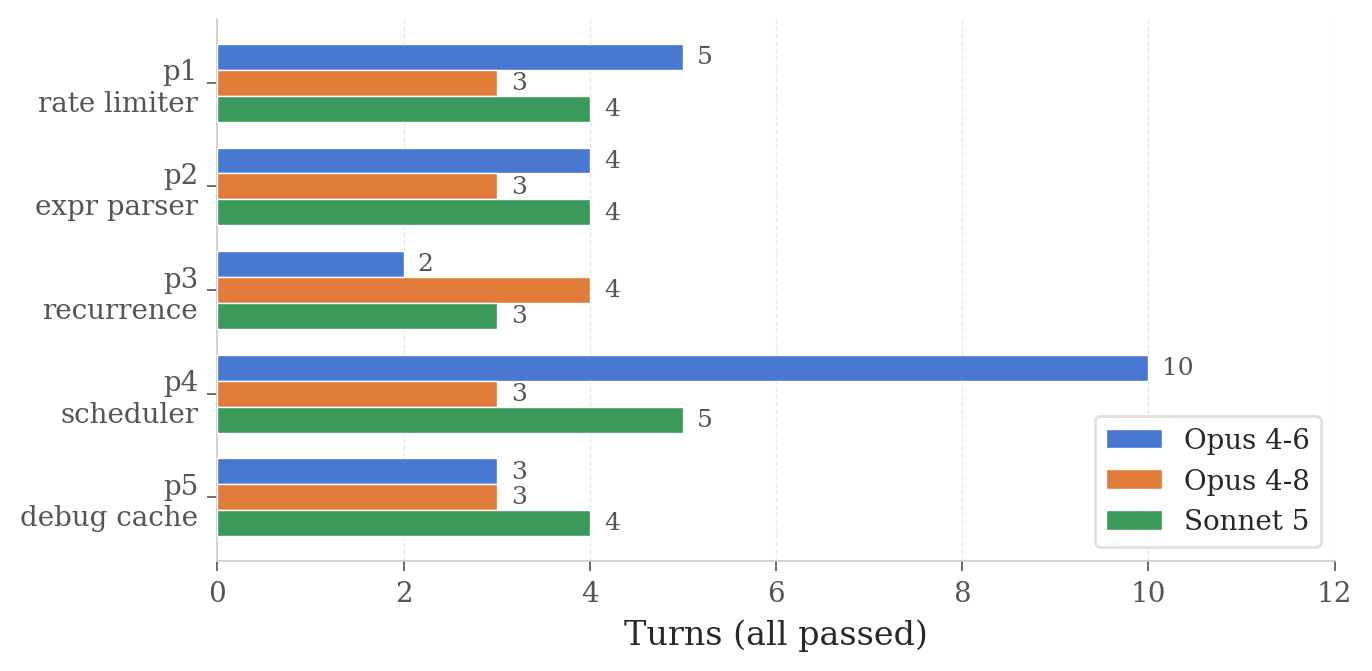
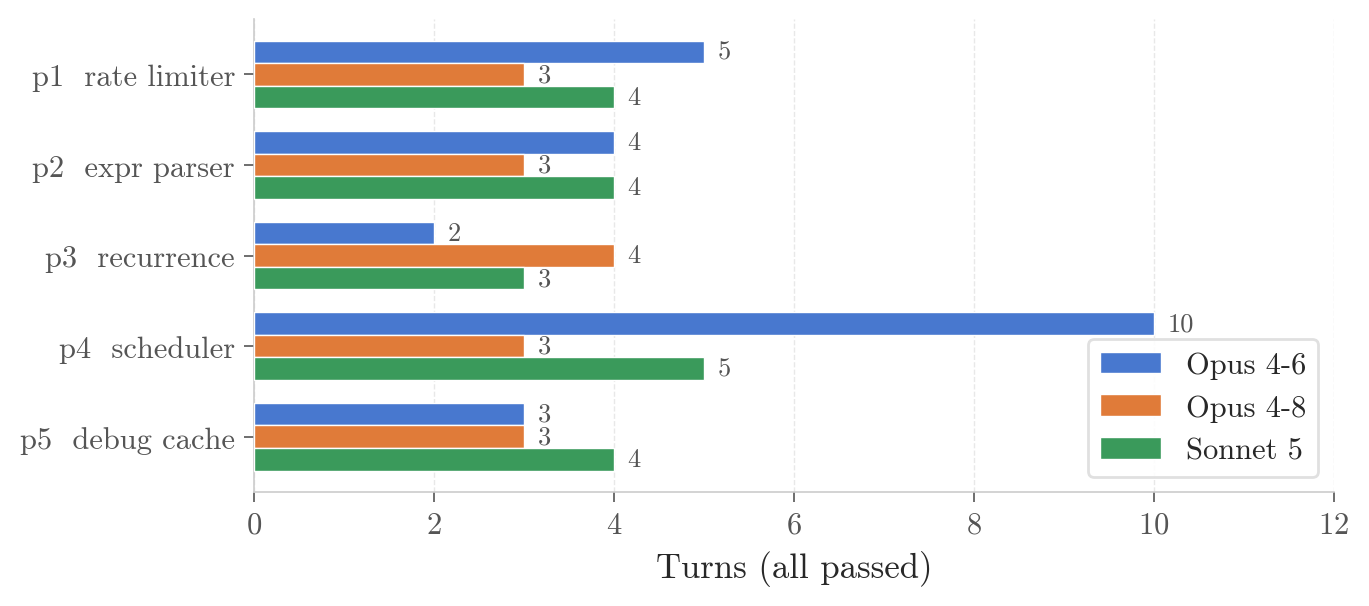
Fix fonts in charts and tables

diff --git a/docs/index.html b/docs/index.html
@@ -166,13 +166,13 @@ details.tv summary{
 }
 details.tv summary:hover{color:var(--accent)}
 /* booktabs tables */
-.tablewrap{overflow-x:auto; margin:24px 0 6px}
+.tablewrap{overflow-x:auto; margin:24px 0 6px; max-width:660px}
 table{
-  border-collapse:collapse; font-family:var(--sans); font-size:13.5px;
-  line-height:1.5; min-width:420px;
+  border-collapse:collapse; font-family:var(--serif); font-size:14px; width:100%;
+  line-height:1.5;
   border-top:1.5px solid var(--ink); border-bottom:1.5px solid var(--ink);
 }
-th,td{padding:7px 14px; text-align:right; font-variant-numeric:tabular-nums; border:none}
+th,td{padding:7px 12px; text-align:right; font-variant-numeric:tabular-nums; border:none}
 thead th{border-bottom:1px solid var(--axis); color:var(--ink); font-weight:600}
 th:first-child, td:first-child{text-align:left; padding-left:2px}
 th:last-child, td:last-child{padding-right:2px}
@@ -254,7 +254,7 @@ footer.site .row a{color:var(--muted)}
 <h2 id="design">Benchmark design</h2>
 <p>A comparison like this is only informative if the problems are absent from training data; a memorized solution passes in every configuration and tells us nothing. The five problems were therefore generated with Claude Fable&nbsp;5 as <em>invented specifications</em>: semantics constructed to be novel, so that solving them requires reading the spec rather than recalling it. They include an expression language ("Calc-26") with a midpoint operator and a deliberately unconventional precedence rule, a sliding-window rate limiter with weighted refund-on-reject semantics, a recurrence expander evaluated against real 2026 daylight-saving transitions, a fully determined greedy DAG scheduler, and a cache module with five planted bugs to find and fix.</p>
 
-<div class="tablewrap wide">
+<div class="tablewrap">
 <table>
   <thead><tr><th>Problem</th><th style="text-align:left">Tests for</th><th style="text-align:left">Oracle</th></tr></thead>
   <tbody>
@@ -266,7 +266,7 @@ footer.site .row a{color:var(--muted)}
   </tbody>
 </table>
 </div>
-<p class="tabcaption wide"><span class="fignum">Table 1.</span>The five problems and their grading oracles.</p>
+<p class="tabcaption"><span class="fignum">Table 1.</span>The five problems and their grading oracles.</p>
 
 <p>Grading is by automated oracle, mostly differential testing against an independent reference implementation on randomized inputs, so a solution passes only by implementing the specified semantics. For p1 and p2 the repository ships <em>mutants</em> — plausible but subtly wrong solutions — and <code>harness/validate.py</code> confirms the oracles reject them. Without that check a pass rate is only as meaningful as the tests behind it.</p>
 <p>We test Opus 4-6, 4-7, and 4-8, and Sonnet 5, all with adaptive thinking at <code>effort=high</code> and default sampling parameters.<sup class="fn" id="fnref3"><a href="#fn3">3</a></sup> The raw-API lane uses five samples per model–problem pair (100 runs); the single-shot harness lane uses three (45 runs, Claude Code 2.1.201, subagents disabled); the agentic lane uses one (15 runs), each in an isolated temporary workspace. Harness context is counted as input plus cache-creation plus cache-read tokens summed over all turns, as reported by Claude Code, and the overhead ratio divides that by the raw call's input tokens.<sup class="fn" id="fnref1"><a href="#fn1">1</a></sup> Every result row and transcript is committed in the repository's <a href="https://github.com/igniting/harness-tax/tree/main/results"><code>results/</code></a> directory.</p>
@@ -276,7 +276,7 @@ footer.site .row a{color:var(--muted)}
 <h3>The raw baseline</h3>
 <p>Table 2 summarizes the raw-API lane. Two observations stand out. First, within the Opus line, single-shot accuracy on these problems declines monotonically across releases: 92% for 4-6, 80% for 4-7, 72% for 4-8. The failures concentrate on p2 and p3 — the two problems whose specifications most directly contradict convention — and we return to them in the discussion. Second, Sonnet 5, the least expensive model tested, solved all 25 of its runs. It generates roughly four times the output tokens of Opus (it thinks longer), but at 40% of the token price the runs cost about the same.</p>
 
-<div class="tablewrap wide">
+<div class="tablewrap">
 <table>
   <thead><tr><th>Model</th><th>pass@1</th><th>p1</th><th>p2</th><th>p3</th><th>p4</th><th>p5</th><th>Avg out tokens</th><th>Cost/solve</th></tr></thead>
   <tbody>
@@ -287,7 +287,7 @@ footer.site .row a{color:var(--muted)}
   </tbody>
 </table>
 </div>
-<p class="tabcaption wide"><span class="fignum">Table 2.</span>Raw-API baseline: one call per run, five samples per cell, effort=high. Output tokens include thinking.</p>
+<p class="tabcaption"><span class="fignum">Table 2.</span>Raw-API baseline: one call per run, five samples per cell, effort=high. Output tokens include thinking.</p>
 
 <h3>What the harness adds</h3>
 <p>Figure 1 shows pass@1 across the three configurations for the models that ran all three.<sup class="fn" id="fnref3b"><a href="#fn3">3</a></sup> The pattern is simple: the harness helps the model that was struggling and does nothing for the models that were not. Opus 4-8 moves from 72% to 100% under the single-shot harness — its raw failures on p2 and p3 disappear entirely. Opus 4-6 moves one point; Sonnet 5 was already at the ceiling.</p>